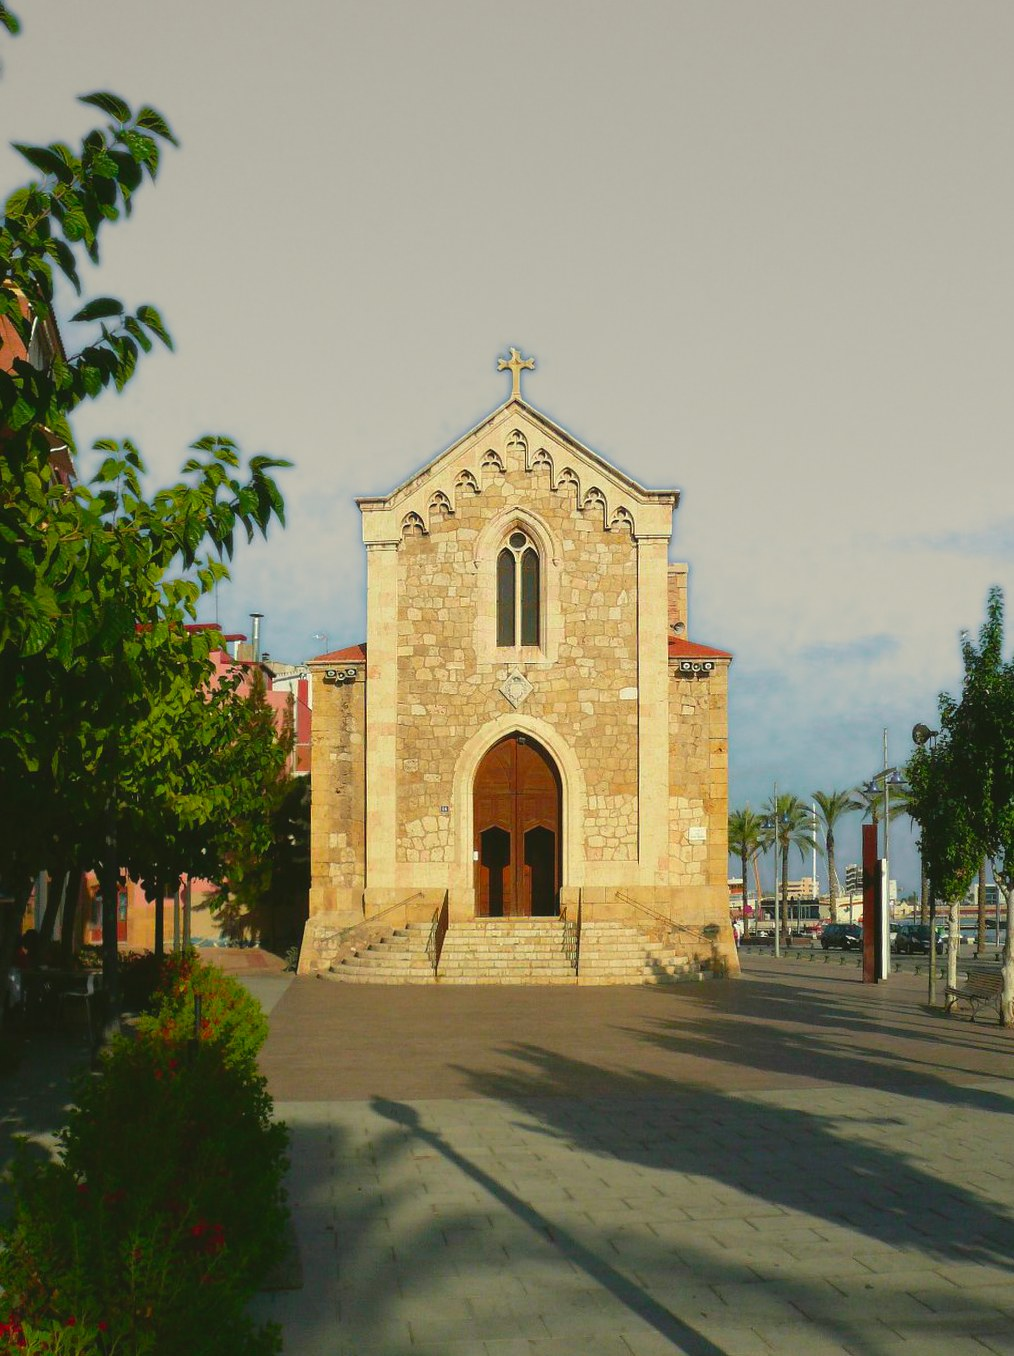
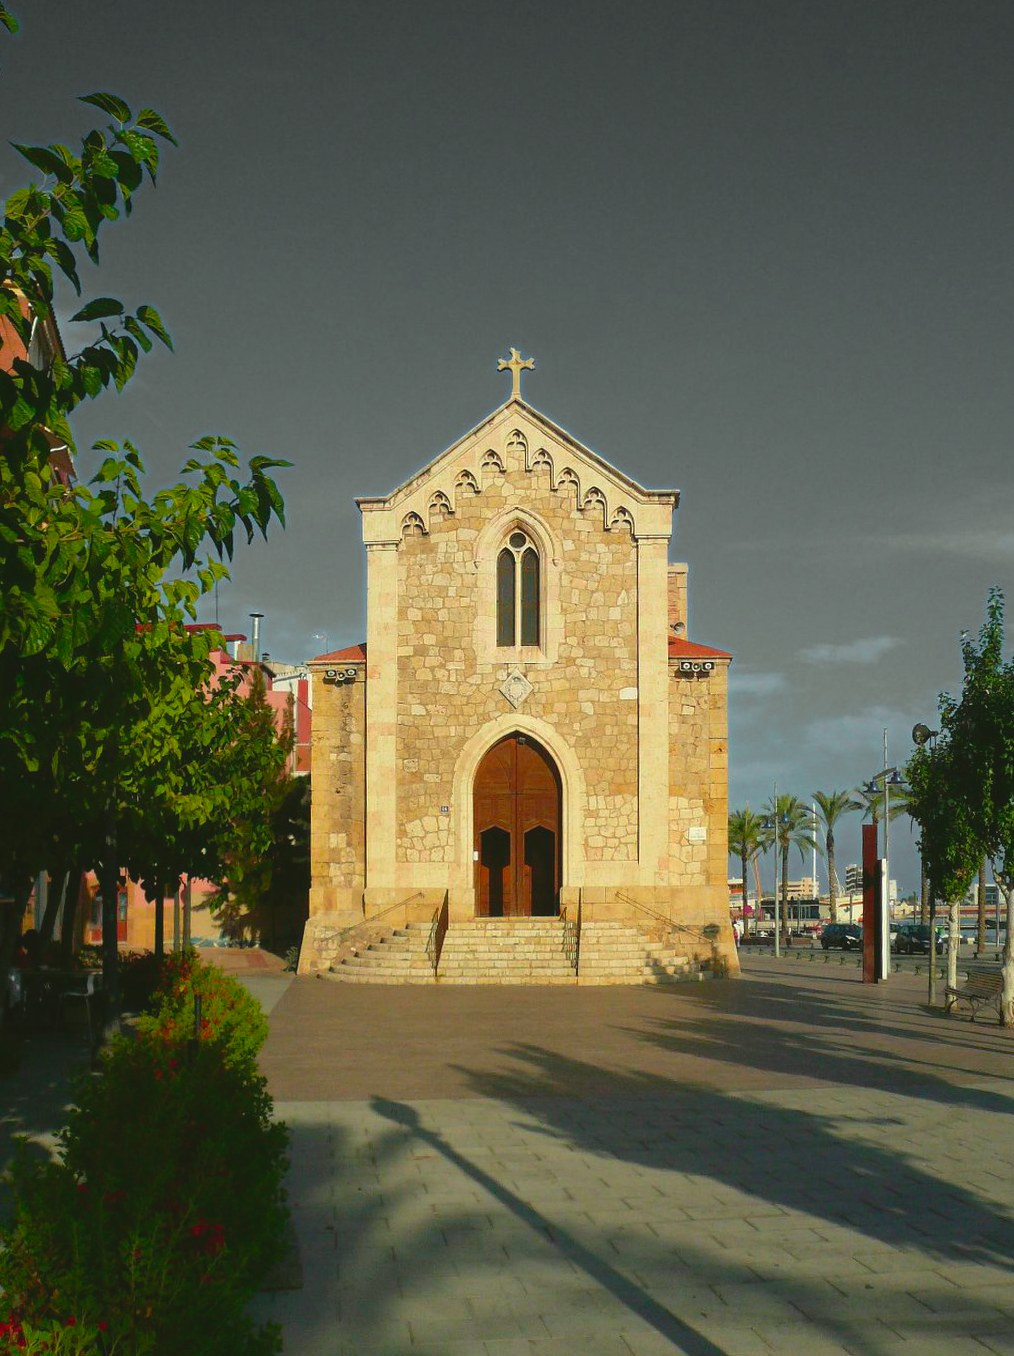
Church photo: keep sky dark
Claude-Session: https://claude.ai/code/session_01NVvXN2ZfjubBKEGKyT8HuS

diff --git a/index.html b/index.html
@@ -175,7 +175,7 @@ footer p{font-size:13.33px}
     <h2 class="d"><span class="n">I.</span><span class="t">Ceremonia en Sant<br>Pere del Serrallo</span></h2>
     <p class="body">A las 17:30, frente al mar, en la iglesia del barrio de pescadores de Tarragona.</p>
     <div><a class="btn" href="https://www.google.com/maps/search/?api=1&amp;query=Esgl%C3%A9sia+de+Sant+Pere+del+Serrallo+Tarragona" target="_blank" rel="noopener"><span>Ver en Google Maps</span></a></div>
-    <figure class="photo" style="margin-bottom:0;margin-left:0;margin-right:0"><img src="img/iglesia-edit.jpg" alt="Iglesia de Sant Pere del Serrallo, Tarragona" loading="lazy"></figure>
+    <figure class="photo" style="margin-bottom:0;margin-left:0;margin-right:0"><img src="img/iglesia-edit.jpg?v=2" alt="Iglesia de Sant Pere del Serrallo, Tarragona" loading="lazy"></figure>
   </div>
 </section>
 
